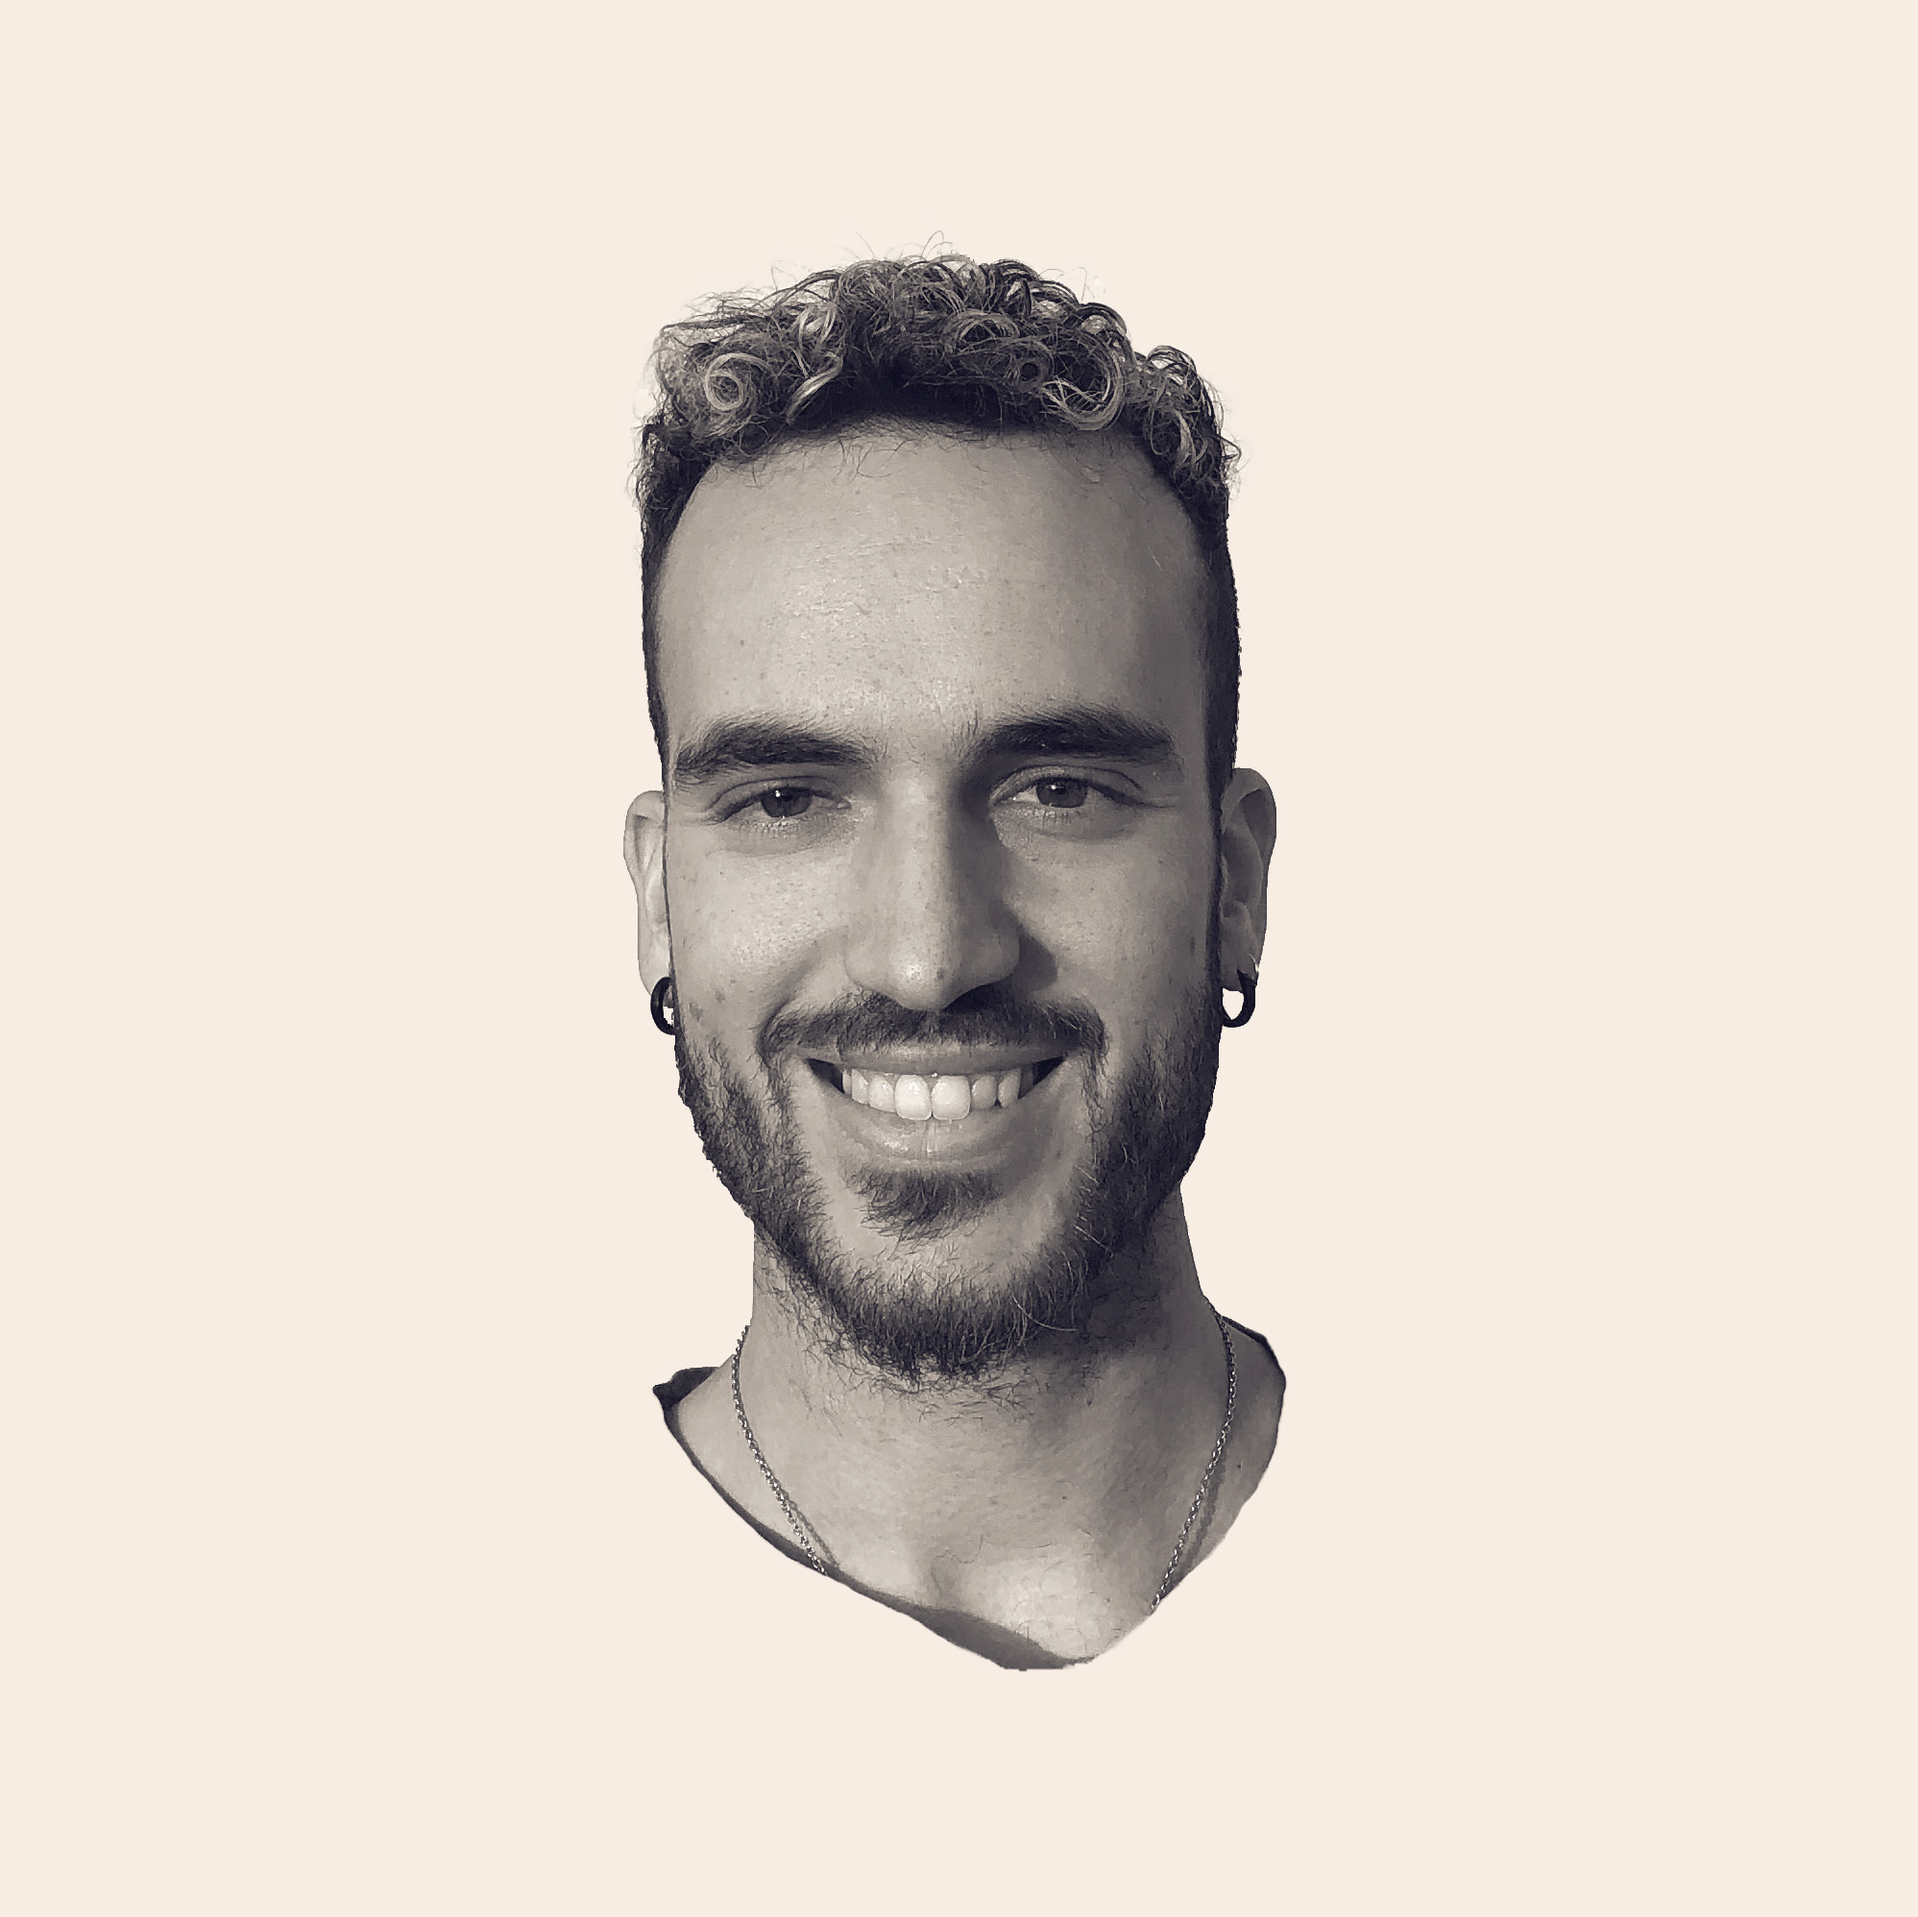
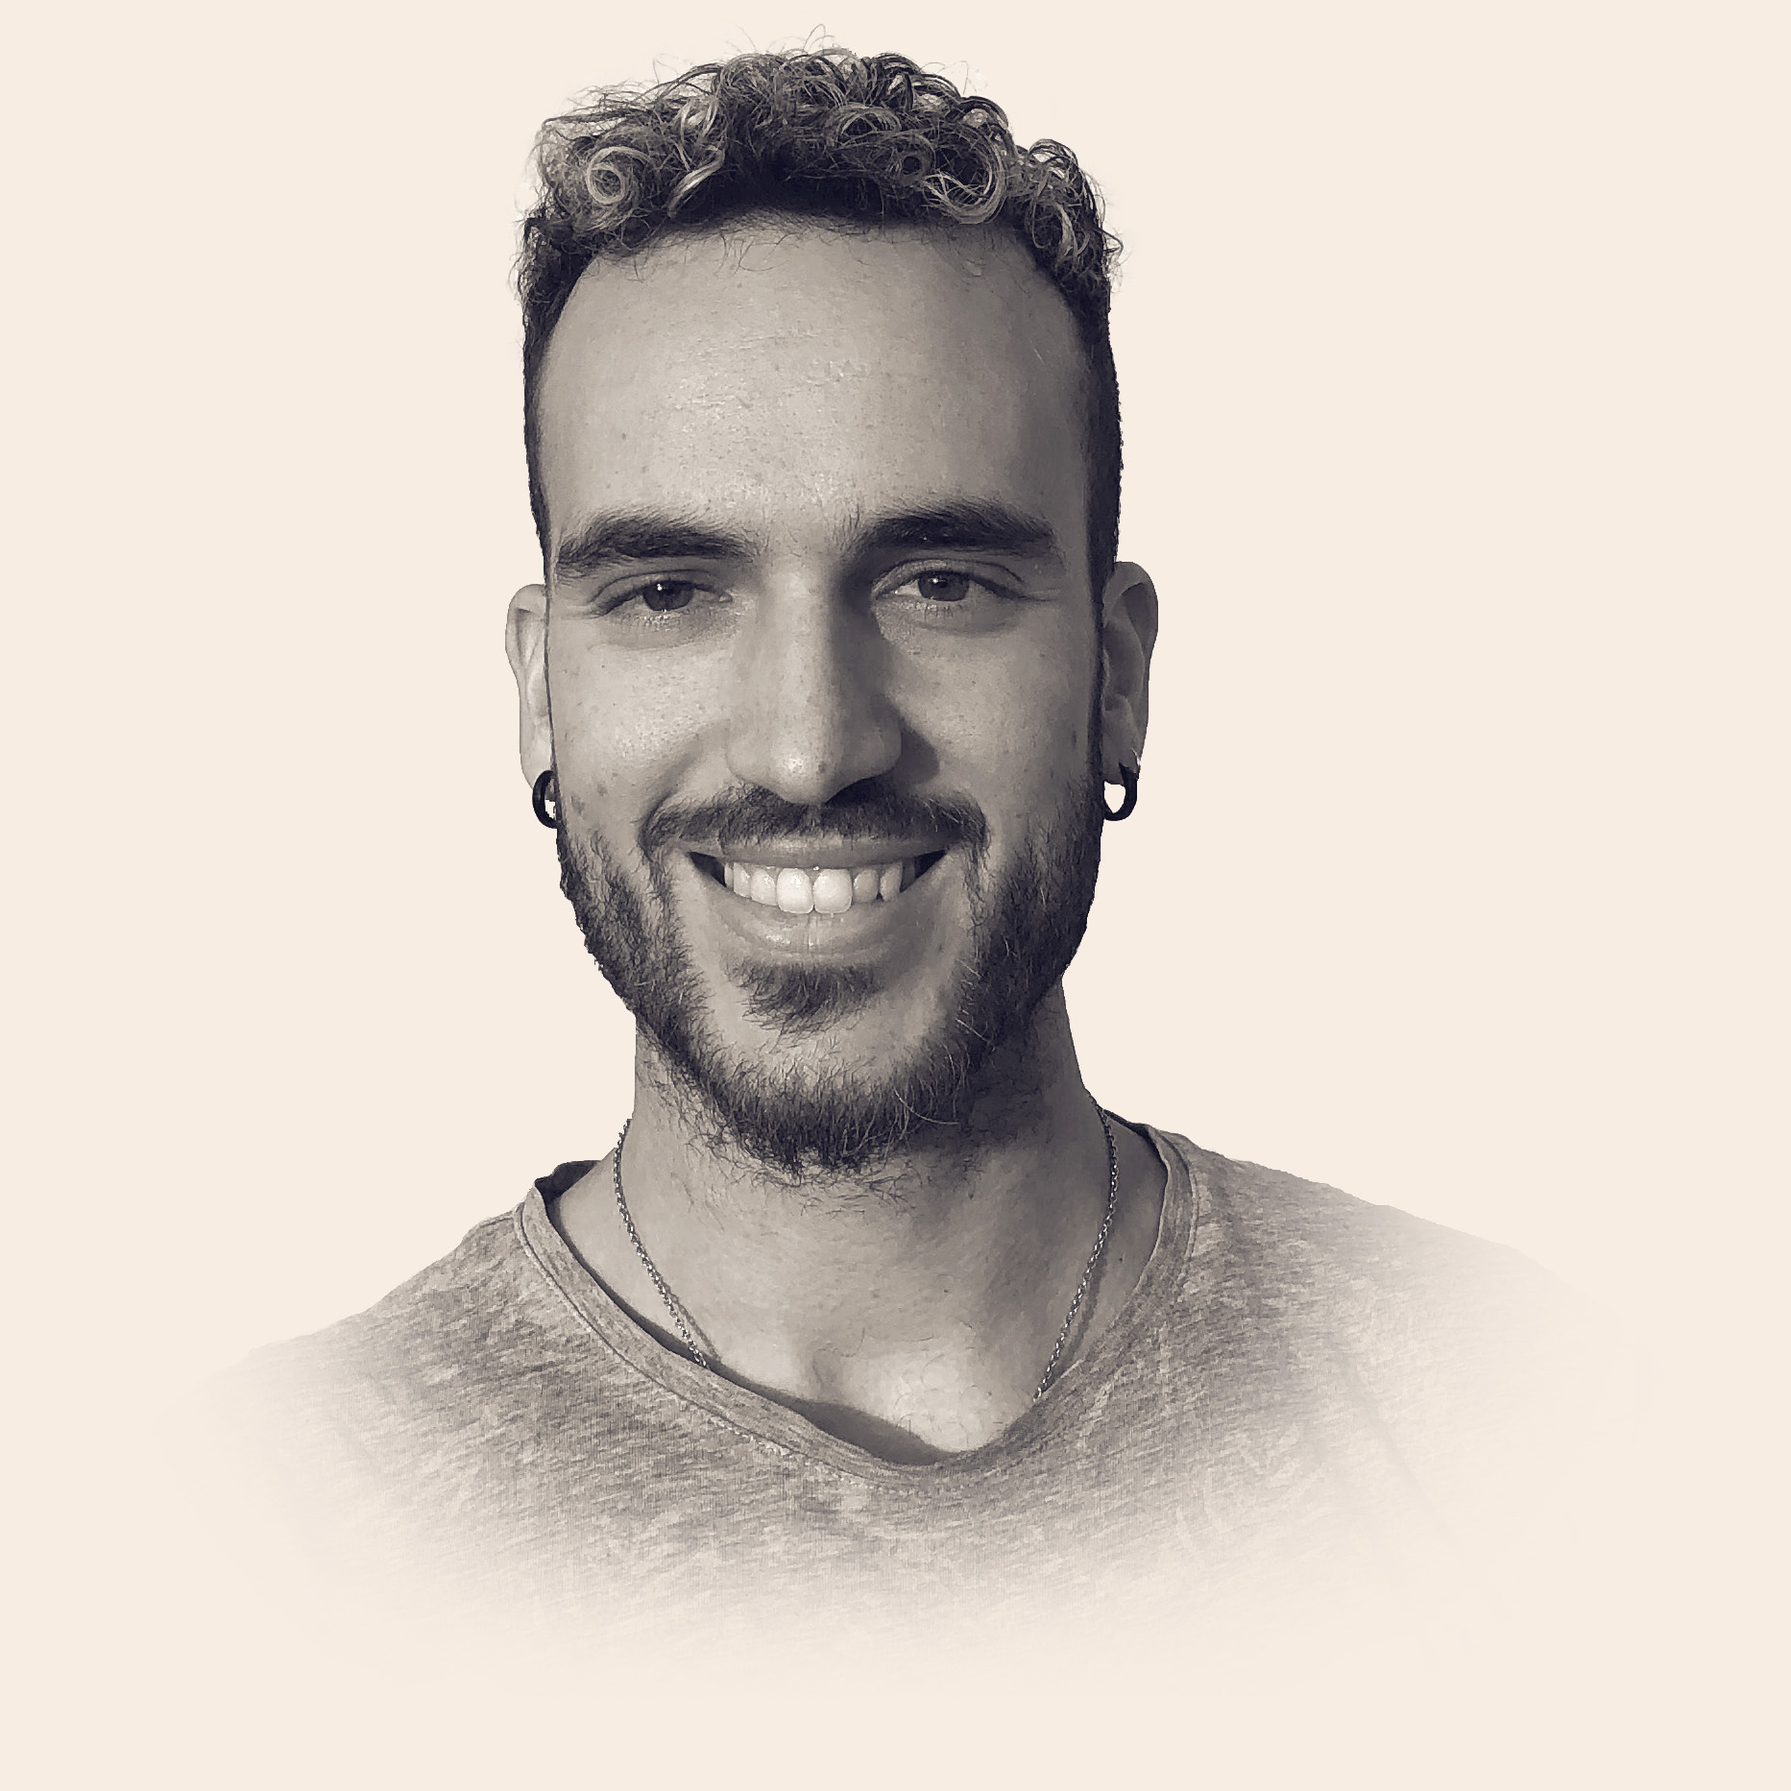
changed image

Changed region(s): [[0.1866, 0.0, 0.8086, 0.9019]]

diff --git a/src/app/home/home.component.scss b/src/app/home/home.component.scss
@@ -7,7 +7,8 @@
 }
 
 .profile-picture {
-	margin-top: 50px;
+	margin-top: 70px;
+	padding-left: 55px;
 	height: 75vh;
 	min-width: 400px;
 	object-fit: cover;
